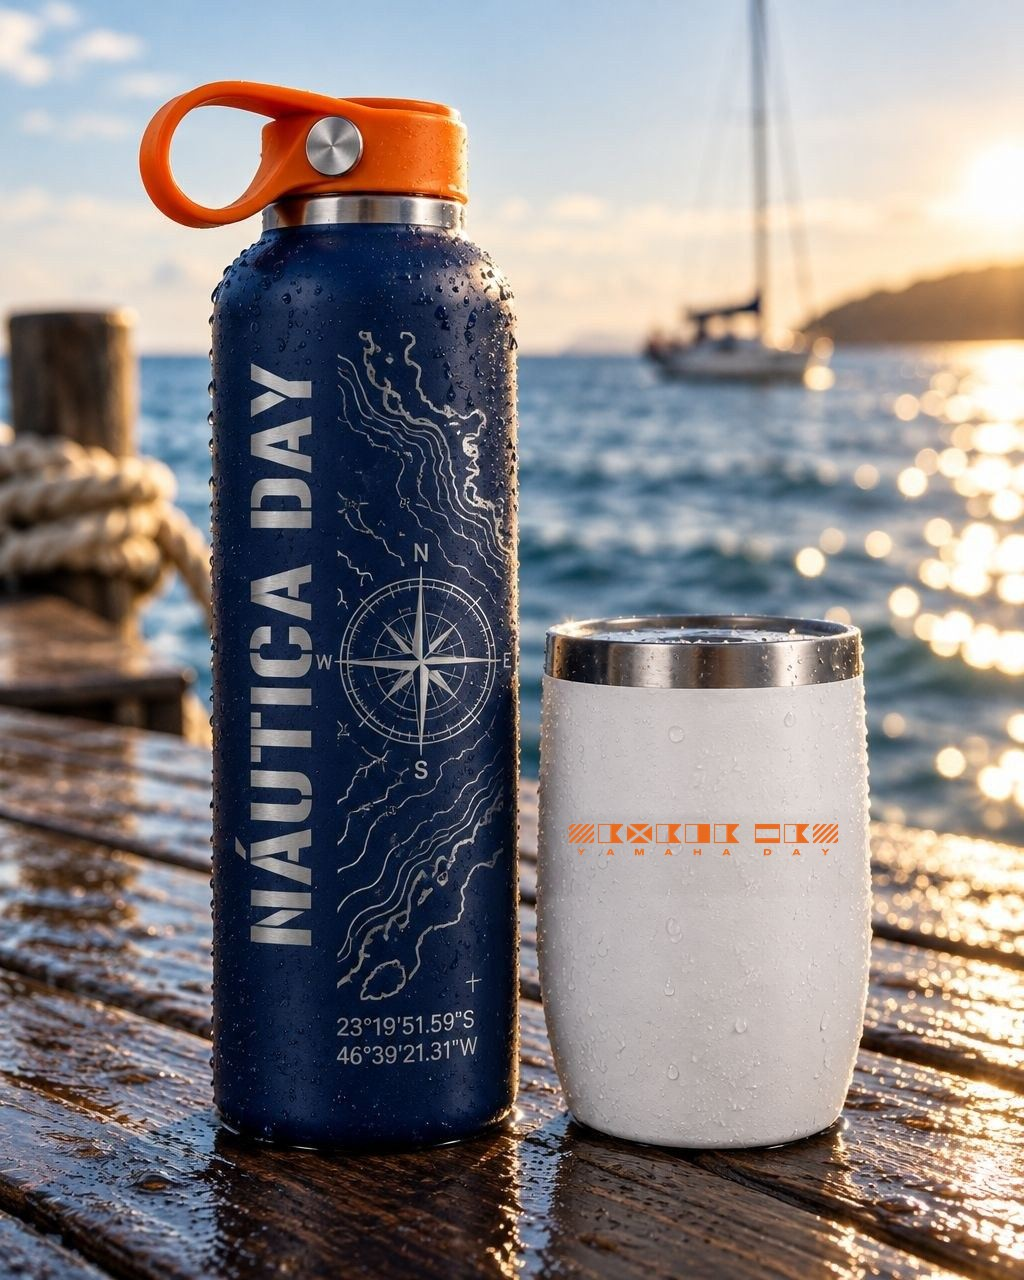
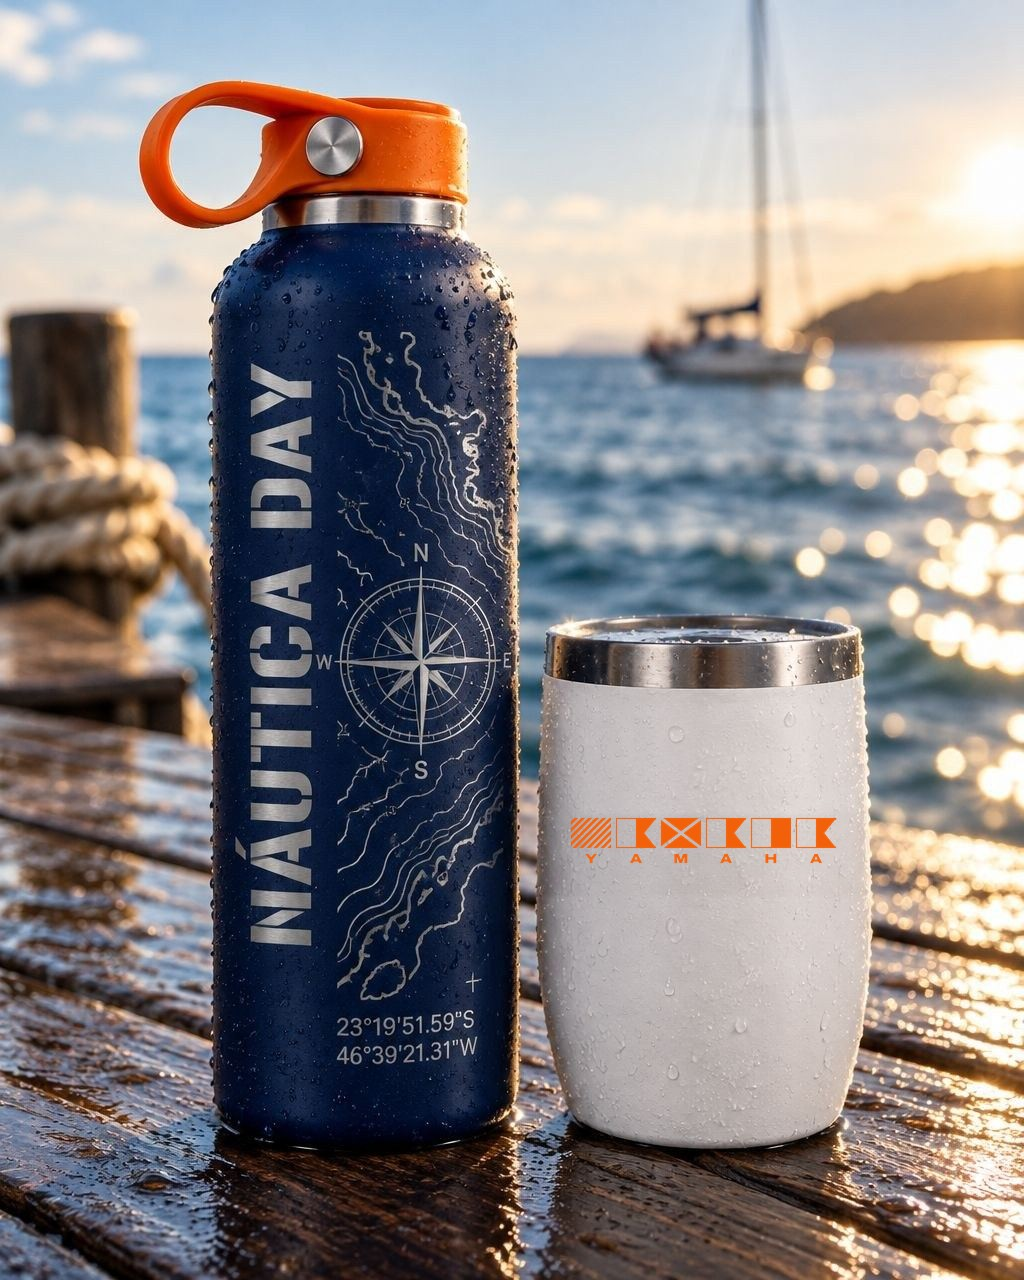
Copo: só YAMAHA, maior e mais laranja
Claude-Session: https://claude.ai/code/session_011PRs9aBYhDYYvJe2sXdTZk

Changed region(s): [[0.5312, 0.625, 0.8125, 0.6875]]

diff --git a/v2/index.html b/v2/index.html
@@ -510,7 +510,7 @@ function voteBox(){const k=KV[i],liked=!!ls.get("nd-like-"+k.id),c=cnt(k.id);
   <div class="tal">${KV.map((x,n)=>`<div class="row ${ls.get("nd-like-"+x.id)?'me':''}"><span>Rota ${n+1} · ${x.name}</span><b>${dbState==="ok"?cnt(x.id):'–'} ♥</b></div>`).join('')}</div></div>`}
 function bindVote(){const b=$("#vb");if(b)b.onclick=()=>cast(KV[i].id)}
 
-const PCS={"d": [{"t": "Backdrop do palco", "d": "A única peça que muda com o KV escolhido: o key visual em escala, atrás do palco das apresentações e das fotos.", "sp": [["Formato", "8 × 3 m"], ["Material", "lona com iluminação frontal"]], "img": "pd-palco.jpg", "w": 1672, "h": 941}, {"t": "Wind banners e totem", "d": "Trio de wind banners navy (YAMAHA, tarjas NÁUTICA/DAY, radar com listras de largada) e totem com o lockup, data, coordenadas e bandeiras.", "sp": [["Wind banner", "pena 3,5 m, tecido sublimado"], ["Totem", "2 × 0,8 m, ACM com LED na base"]], "img": "c4-sinal.jpg", "w": 1200, "h": 800}, {"t": "Credencial", "d": "Frente navy com radar, as tarjas NÁUTICA/DAY, nome e faixa laranja; verso com a programação, QR e coordenadas.", "sp": [["Formato", "PVC 9,5 × 14 cm"]], "img": "c4-cred.jpg", "w": 1200, "h": 800}, {"t": "Cordão", "d": "Fita sublimada nas duas faces: navy com Yamaha, NÁUTICA DAY, bandeiras e data; laranja por dentro com NÁUTICA DAY gigante. Mosquetão com giro.", "sp": [["Fita", "25 mm, sublimação dupla face"]], "img": "a4-cordao.jpg", "w": 1200, "h": 800}, {"t": "Convite digital", "d": "No mesmo desenho da agenda: lockup, convite e confirmação de presença numa tela, a programação na outra.", "sp": [["Formato", "1080 × 1920"]], "img": "convite.jpg", "w": 3600, "h": 2700}, {"t": "Agenda do evento", "d": "A programação completa do dia no sistema do Náutica Day: lockup, radar, horários com as duas janelas de experiência náutica em destaque, bandeiras e coordenadas.", "sp": [["Formatos", "story, impresso A3 e totem"]], "img": "agenda.jpg", "w": 2160, "h": 3600}, {"t": "Camisetas", "d": "Navy com NÁUTICA DAY e coordenadas no peito; off-white com a carta náutica inteira nas costas, o rastro em S e as bandeiras.", "sp": [["Técnica", "silk"]], "img": "b4-camisetas.jpg", "w": 1200, "h": 799}, {"t": "Camisetas · variação", "d": "Navy com as tarjas no peito e as listras na lateral; laranja com o radar nas costas.", "sp": [["Base", "algodão 200 g, oversized"], ["Técnica", "silk em 2 cores"]], "img": "pz-c-camisetas.jpg", "w": 1200, "h": 799}, {"t": "Lycra UV", "d": "Para pilotar: manga laranja com o código de sinais, NÁUTICA DAY na lateral e a carta náutica nas costas.", "sp": [["Base", "lycra FPU 50+"]], "img": "b4-lycra.jpg", "w": 1200, "h": 799}, {"t": "Garrafa e copo", "d": "Garrafa inox navy gravada a laser com o stencil, a carta náutica, a rosa dos ventos e as coordenadas; copo branco com as bandeiras reais soletrando YAMAHA DAY.", "sp": [["Garrafa", "inox 750 ml"]], "img": "b4-garrafa2.jpg", "w": 1024, "h": 1280}, {"t": "Bonés", "d": "Dad hat navy com o lockup bordado em relevo, trucker com as bandeiras na lateral e bucket laranja.", "sp": [["Técnica", "bordado 3D"]], "img": "bone.jpg", "w": 1536, "h": 1024}, {"t": "Sacolas", "d": "Ecobag navy com o lockup e as bandeiras; laranja com o pattern NÁUTICA DAY do cordão.", "sp": [["Base", "lona 12 oz, alças de algodão"], ["Técnica", "serigrafia"]], "img": "sacola.jpg", "w": 1536, "h": 1024}], "e": [{"t": "Backdrop do palco", "d": "A única peça que muda com o KV escolhido: o key visual em escala, atrás do palco das apresentações e das fotos.", "sp": [["Formato", "8 × 3 m"], ["Material", "lona com iluminação frontal"]], "img": "pe-palco.jpg", "w": 1671, "h": 941}, {"t": "Wind banners e totem", "d": "Trio de wind banners navy (YAMAHA, tarjas NÁUTICA/DAY, radar com listras de largada) e totem com o lockup, data, coordenadas e bandeiras.", "sp": [["Wind banner", "pena 3,5 m, tecido sublimado"], ["Totem", "2 × 0,8 m, ACM com LED na base"]], "img": "c4-sinal.jpg", "w": 1200, "h": 800}, {"t": "Credencial", "d": "Frente navy com radar, as tarjas NÁUTICA/DAY, nome e faixa laranja; verso com a programação, QR e coordenadas.", "sp": [["Formato", "PVC 9,5 × 14 cm"]], "img": "c4-cred.jpg", "w": 1200, "h": 800}, {"t": "Cordão", "d": "Fita sublimada nas duas faces: navy com Yamaha, NÁUTICA DAY, bandeiras e data; laranja por dentro com NÁUTICA DAY gigante. Mosquetão com giro.", "sp": [["Fita", "25 mm, sublimação dupla face"]], "img": "a4-cordao.jpg", "w": 1200, "h": 800}, {"t": "Convite digital", "d": "No mesmo desenho da agenda: lockup, convite e confirmação de presença numa tela, a programação na outra.", "sp": [["Formato", "1080 × 1920"]], "img": "convite.jpg", "w": 3600, "h": 2700}, {"t": "Agenda do evento", "d": "A programação completa do dia no sistema do Náutica Day: lockup, radar, horários com as duas janelas de experiência náutica em destaque, bandeiras e coordenadas.", "sp": [["Formatos", "story, impresso A3 e totem"]], "img": "agenda.jpg", "w": 2160, "h": 3600}, {"t": "Camisetas", "d": "Navy com NÁUTICA DAY e coordenadas no peito; off-white com a carta náutica inteira nas costas, o rastro em S e as bandeiras.", "sp": [["Técnica", "silk"]], "img": "b4-camisetas.jpg", "w": 1200, "h": 799}, {"t": "Camisetas · variação", "d": "Navy com as tarjas no peito e as listras na lateral; laranja com o radar nas costas.", "sp": [["Base", "algodão 200 g, oversized"], ["Técnica", "silk em 2 cores"]], "img": "pz-c-camisetas.jpg", "w": 1200, "h": 799}, {"t": "Lycra UV", "d": "Para pilotar: manga laranja com o código de sinais, NÁUTICA DAY na lateral e a carta náutica nas costas.", "sp": [["Base", "lycra FPU 50+"]], "img": "b4-lycra.jpg", "w": 1200, "h": 799}, {"t": "Garrafa e copo", "d": "Garrafa inox navy gravada a laser com o stencil, a carta náutica, a rosa dos ventos e as coordenadas; copo branco com as bandeiras reais soletrando YAMAHA DAY.", "sp": [["Garrafa", "inox 750 ml"]], "img": "b4-garrafa2.jpg", "w": 1024, "h": 1280}, {"t": "Bonés", "d": "Dad hat navy com o lockup bordado em relevo, trucker com as bandeiras na lateral e bucket laranja.", "sp": [["Técnica", "bordado 3D"]], "img": "bone.jpg", "w": 1536, "h": 1024}, {"t": "Sacolas", "d": "Ecobag navy com o lockup e as bandeiras; laranja com o pattern NÁUTICA DAY do cordão.", "sp": [["Base", "lona 12 oz, alças de algodão"], ["Técnica", "serigrafia"]], "img": "sacola.jpg", "w": 1536, "h": 1024}]};
+const PCS={"d": [{"t": "Backdrop do palco", "d": "A única peça que muda com o KV escolhido: o key visual em escala, atrás do palco das apresentações e das fotos.", "sp": [["Formato", "8 × 3 m"], ["Material", "lona com iluminação frontal"]], "img": "pd-palco.jpg", "w": 1672, "h": 941}, {"t": "Wind banners e totem", "d": "Trio de wind banners navy (YAMAHA, tarjas NÁUTICA/DAY, radar com listras de largada) e totem com o lockup, data, coordenadas e bandeiras.", "sp": [["Wind banner", "pena 3,5 m, tecido sublimado"], ["Totem", "2 × 0,8 m, ACM com LED na base"]], "img": "c4-sinal.jpg", "w": 1200, "h": 800}, {"t": "Credencial", "d": "Frente navy com radar, as tarjas NÁUTICA/DAY, nome e faixa laranja; verso com a programação, QR e coordenadas.", "sp": [["Formato", "PVC 9,5 × 14 cm"]], "img": "c4-cred.jpg", "w": 1200, "h": 800}, {"t": "Cordão", "d": "Fita sublimada nas duas faces: navy com Yamaha, NÁUTICA DAY, bandeiras e data; laranja por dentro com NÁUTICA DAY gigante. Mosquetão com giro.", "sp": [["Fita", "25 mm, sublimação dupla face"]], "img": "a4-cordao.jpg", "w": 1200, "h": 800}, {"t": "Convite digital", "d": "No mesmo desenho da agenda: lockup, convite e confirmação de presença numa tela, a programação na outra.", "sp": [["Formato", "1080 × 1920"]], "img": "convite.jpg", "w": 3600, "h": 2700}, {"t": "Agenda do evento", "d": "A programação completa do dia no sistema do Náutica Day: lockup, radar, horários com as duas janelas de experiência náutica em destaque, bandeiras e coordenadas.", "sp": [["Formatos", "story, impresso A3 e totem"]], "img": "agenda.jpg", "w": 2160, "h": 3600}, {"t": "Camisetas", "d": "Navy com NÁUTICA DAY e coordenadas no peito; off-white com a carta náutica inteira nas costas, o rastro em S e as bandeiras.", "sp": [["Técnica", "silk"]], "img": "b4-camisetas.jpg", "w": 1200, "h": 799}, {"t": "Camisetas · variação", "d": "Navy com as tarjas no peito e as listras na lateral; laranja com o radar nas costas.", "sp": [["Base", "algodão 200 g, oversized"], ["Técnica", "silk em 2 cores"]], "img": "pz-c-camisetas.jpg", "w": 1200, "h": 799}, {"t": "Lycra UV", "d": "Para pilotar: manga laranja com o código de sinais, NÁUTICA DAY na lateral e a carta náutica nas costas.", "sp": [["Base", "lycra FPU 50+"]], "img": "b4-lycra.jpg", "w": 1200, "h": 799}, {"t": "Garrafa e copo", "d": "Garrafa inox navy gravada a laser com o stencil, a carta náutica, a rosa dos ventos e as coordenadas; copo branco com as bandeiras reais soletrando YAMAHA.", "sp": [["Garrafa", "inox 750 ml"]], "img": "b4-garrafa2.jpg?v=2", "w": 1024, "h": 1280}, {"t": "Bonés", "d": "Dad hat navy com o lockup bordado em relevo, trucker com as bandeiras na lateral e bucket laranja.", "sp": [["Técnica", "bordado 3D"]], "img": "bone.jpg", "w": 1536, "h": 1024}, {"t": "Sacolas", "d": "Ecobag navy com o lockup e as bandeiras; laranja com o pattern NÁUTICA DAY do cordão.", "sp": [["Base", "lona 12 oz, alças de algodão"], ["Técnica", "serigrafia"]], "img": "sacola.jpg", "w": 1536, "h": 1024}], "e": [{"t": "Backdrop do palco", "d": "A única peça que muda com o KV escolhido: o key visual em escala, atrás do palco das apresentações e das fotos.", "sp": [["Formato", "8 × 3 m"], ["Material", "lona com iluminação frontal"]], "img": "pe-palco.jpg", "w": 1671, "h": 941}, {"t": "Wind banners e totem", "d": "Trio de wind banners navy (YAMAHA, tarjas NÁUTICA/DAY, radar com listras de largada) e totem com o lockup, data, coordenadas e bandeiras.", "sp": [["Wind banner", "pena 3,5 m, tecido sublimado"], ["Totem", "2 × 0,8 m, ACM com LED na base"]], "img": "c4-sinal.jpg", "w": 1200, "h": 800}, {"t": "Credencial", "d": "Frente navy com radar, as tarjas NÁUTICA/DAY, nome e faixa laranja; verso com a programação, QR e coordenadas.", "sp": [["Formato", "PVC 9,5 × 14 cm"]], "img": "c4-cred.jpg", "w": 1200, "h": 800}, {"t": "Cordão", "d": "Fita sublimada nas duas faces: navy com Yamaha, NÁUTICA DAY, bandeiras e data; laranja por dentro com NÁUTICA DAY gigante. Mosquetão com giro.", "sp": [["Fita", "25 mm, sublimação dupla face"]], "img": "a4-cordao.jpg", "w": 1200, "h": 800}, {"t": "Convite digital", "d": "No mesmo desenho da agenda: lockup, convite e confirmação de presença numa tela, a programação na outra.", "sp": [["Formato", "1080 × 1920"]], "img": "convite.jpg", "w": 3600, "h": 2700}, {"t": "Agenda do evento", "d": "A programação completa do dia no sistema do Náutica Day: lockup, radar, horários com as duas janelas de experiência náutica em destaque, bandeiras e coordenadas.", "sp": [["Formatos", "story, impresso A3 e totem"]], "img": "agenda.jpg", "w": 2160, "h": 3600}, {"t": "Camisetas", "d": "Navy com NÁUTICA DAY e coordenadas no peito; off-white com a carta náutica inteira nas costas, o rastro em S e as bandeiras.", "sp": [["Técnica", "silk"]], "img": "b4-camisetas.jpg", "w": 1200, "h": 799}, {"t": "Camisetas · variação", "d": "Navy com as tarjas no peito e as listras na lateral; laranja com o radar nas costas.", "sp": [["Base", "algodão 200 g, oversized"], ["Técnica", "silk em 2 cores"]], "img": "pz-c-camisetas.jpg", "w": 1200, "h": 799}, {"t": "Lycra UV", "d": "Para pilotar: manga laranja com o código de sinais, NÁUTICA DAY na lateral e a carta náutica nas costas.", "sp": [["Base", "lycra FPU 50+"]], "img": "b4-lycra.jpg", "w": 1200, "h": 799}, {"t": "Garrafa e copo", "d": "Garrafa inox navy gravada a laser com o stencil, a carta náutica, a rosa dos ventos e as coordenadas; copo branco com as bandeiras reais soletrando YAMAHA DAY.", "sp": [["Garrafa", "inox 750 ml"]], "img": "b4-garrafa2.jpg", "w": 1024, "h": 1280}, {"t": "Bonés", "d": "Dad hat navy com o lockup bordado em relevo, trucker com as bandeiras na lateral e bucket laranja.", "sp": [["Técnica", "bordado 3D"]], "img": "bone.jpg", "w": 1536, "h": 1024}, {"t": "Sacolas", "d": "Ecobag navy com o lockup e as bandeiras; laranja com o pattern NÁUTICA DAY do cordão.", "sp": [["Base", "lona 12 oz, alças de algodão"], ["Técnica", "serigrafia"]], "img": "sacola.jpg", "w": 1536, "h": 1024}]};
 const STX=[["hero","Identidade no produto","WaveRunner com NÁUTICA DAY no casco, como marcação de fábrica. O hero da ativação."],["deck","Stencil no deck","NÁUTICA DAY, setas e linhas de velocidade no piso: a circulação vira mídia."],["boia","Boias de amarração","Navy com lettering branco e laranja de sinalização, instaladas no lago."],["caixa","Caixas de operação","Cases e baús com marcações, coordenadas e códigos de bordo."],["lounge","Lounge náutico","Tambores e mobiliário industrial como apoio e ambientação."],["pintura","Pintura ao vivo","O lettering aplicado no casco de uma WaveRunner diante dos convidados, com gabarito e máscara removível."],["lab","Stencil Lab","O convidado escolhe placa, tag ou mini case e leva a peça marcada."],["colecao","Coleção marca de bordo","Coletes e dry bags com personalização das iniciais."],["bandeiras","Cenografia: bandeiras náuticas","Fileira no píer soletrando YAMAHA · DAY com as bandeiras reais do Código Internacional de Sinais. O vento faz parte da cena."]];
 function sugSec(){return `<section class="sug"><div class="sw"><p class="eyebrow">Sugestão de ativação</p><h2>Stencil Experience</h2><p>O stencil do NÁUTICA DAY sai do casco e ocupa o Refúgio: deck, boias, caixas de operação, lounge, pintura ao vivo numa WaveRunner e um Stencil Lab onde o convidado personaliza a própria peça. Funciona com qualquer um dos dois KVs.</p><img src="ativ-stencil.jpg" alt="Ativação stencil" loading="lazy"></div>
 <div class="sw"><p class="eyebrow">Sugestão de cenografia</p><h2>Bandeiras náuticas</h2><p>As 9 bandeiras do Código Internacional de Sinais soletram YAMAHA DAY em escala real: fileira no píer, pórtico de bandeiras, parede do lounge para fotos e bandeiras gigantes nas árvores. É a identidade do evento ocupando o lugar.</p><img src="ceno-bandeiras.jpg" alt="Cenografia de bandeiras" loading="lazy"></div></section>`}
